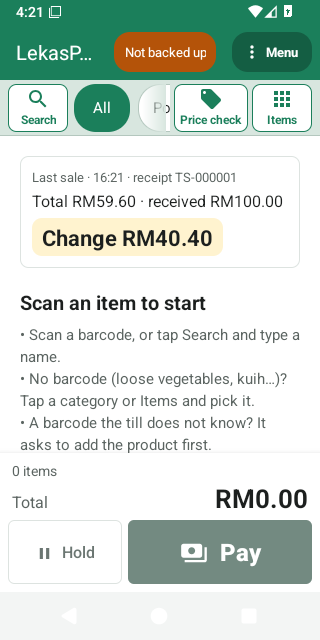
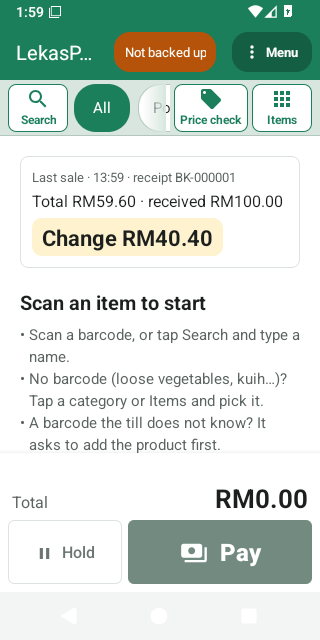
1.20.1: CI results in PHASES; guide pictures of the empty bill
Claude-Session: https://claude.ai/code/session_015DuNPVadi1hRcxet1V8MJs

diff --git a/docs/PHASES.md b/docs/PHASES.md
@@ -2383,7 +2383,12 @@ as much as you can". Audited from the 1.20.0 CI pictures (320dp phone and tablet
 - [x] Docs: user guide EN + MS (cheat sheet, the screen, Items, Holding a bill), `features.md`, `glossary.md`, `codemap.md`,
       D-081. Nothing new stored or sent: privacy unchanged
 - [x] Local: `compileDebugKotlin`, `compileDebugAndroidTestKotlin`, `lintDebug` (no errors), `check-site.mjs` OK
-- [ ] CI run on the branch; release APK size; pictures checked
+- [x] CI run 38572000525 (60f4334): all jobs green; its 320dp picture showed "Held bills (1)" shrunk to small print → Hold is
+      as wide as Pay while it reads Held bills (Pay is greyed then)
+- [x] CI run 38575073071 (6001143): all jobs green (build, lint, instrumented API 21 + 36, tablet, release smoke API 21 + 36).
+      Release APK **1,682,860 bytes** (1.20.0: 1,681,914). Pictures checked: phone Items → **Bill** (EN/BM), the held bill's
+      **Held bills (1)** / **Ditangguh (1)** readable on the phone and the tablet, help lines indented, no "0 items"
+- [x] Guide pictures `en/ms-sell-empty` from that run; `check-site.mjs` OK
 - [ ] Test build v1.20.1
 - [ ] The owner's phone check
 
